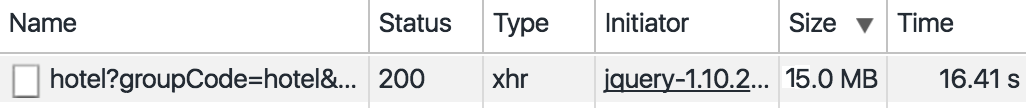
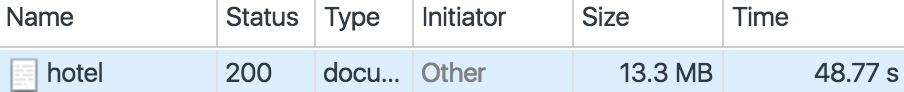
update on 2017/10/04 22:22:20

diff --git a/source/_posts/map-api-performance-improvement.md b/source/_posts/map-api-performance-improvement.md
@@ -13,64 +13,127 @@ date: 2017-09-28 23:29:16
 
 ## 문제점
 ![크롬 개발자 도구 네트워크 탭에서 본 API 호출](01.png)  
-응답하는데만 16초가 걸렸고 트래픽은 15MB 남짓...  
+Time은 데이터 전체를 파싱하는데 걸린 시간이니 무시하고...
+트래픽이 13MB 남짓...  
 사용자가 조건을 바꿔서 검색을 한다면 데이터 광탈범이 될 가능성이 다분한 상황이었다.  
-서버에서 16초가 걸리니 로컬에서는 20초 이상이 걸리는 상황이었다.  
 
-![사태 파악을 위해 응답값을 보자](02.png)  
-15MB의 문자열을 파싱하기에는 무리였는지 크롬 조차 파싱하는 걸 포기하였다.  
+![순수 응답 시간을 알고 싶어서 다운로드 받아봄](03.png)  
+응답 시간이 22초 남짓...  
 
-![원본 응답값을 보고 싶어서 직접 응답값을 다운로드](03.png)  
-32초에 요청하고 49초에 응답을 받았으니 17초 소요  
-응답값 사이즈는 15,504,080Byte, 약 15Mb.  
-17초 중에 응답을 15MB를 내려받는 건 1~2초 내에 끝나서 대부분이 쿼리 실행 및 자바 객체와 매핑하는데 시간을 소요했을 것으로 추정.  
+![StopWatch를 통해 어느 작업에서 병목이 가장 많이 발생하는지 파악](16.png)  
 
-## 원인 파악 및 해결
-### 쿼리 튜닝
-![클러스터(지역 목록) 조회 쿼리 및 자바 객체로 매핑하는데 약 1초](04.png)  
-![딜목록 조회 쿼리 및 자바 객체로 매핑하는데 약 10초](06.png)  
-![가격 주입 쿼리 및 자바 객체로 매핑하는데 약 3초](07.png)  
-호텔 실제 가격 주입 부분은 다른 곳에서도 사용 중이기도 하고 딜 목록 조회가 제일 시간이 오래 걸려서 해당 쿼리부터 손보기로 했다.  
+## 원인 파악
+### 쿼리
+![숙박 연동사 실제 가격 주입하는 부분](17.png)  
+숙박 연동 최저가는 jooq로 불러오고 있고, 숙박 연동사 테이블은 jpa로 불러오고 있음.  
+순수 네이티브 쿼리가 아닌 이상 퍼포먼스가 제대로 나오지 않을 것으로 판단됨.  
 
-![테이블의 모든 필드를 다 긁어오고 있음](05.png)  
+![딜 목록 불러오는 쿼리](05.png)  
 실제로 필요한 건 특정 필드 뿐인데 모든 필드를 다 긁어오고 있어서 쿼리 실행속도가 느려진 것임.  
-따라서 필요한 필드만 불러오게 끔 코드를 수정하였다.
 
-![쿼리 실행 속도가 훨씬 올라갔다.](13.png)  
-
-### 데이터 다이어트(용량 줄이기)
+### 용량
 ![실제로 저장된 응답값](08.png)  
 이 응답값에는 세 가지 문제점이 존재한다.
 
 ![쓸 데 없는 공백을 포함하고 있었다.](09.png)  
-따라서 JSONParser 쪽을 손 봐서 공백을 없애도록 수정하였다.  
-하지만 공백을 줄여보아도 1MB 남짓의 용량만 줄어들었다.  
+이 데이터를 줄였을 때 1MB 정도 가량이 줄어들었다.
 
 ![쓸 데 없는 컬럼들도 포함하고 있었다.](10.png)  
-treeAllId라던지, clusterName이나 빈 배열 등등 다른 값들을 가지고 유추할 수 있는 값들을 제거하였다.  
-하지만 크게 효과는 없었다.  
-
+treeAllId라던지, clusterName이나 빈 배열 등등 다른 값들을 가지고 유추할 수 있는 값들을 제거하였다.
+딱히 이 부분에서는 데이터를 크게 줄일 수가 없었다.  
+  
 ![컬럼의 값을 가공하지 않고 그대로 들고 있다.](11.png)  
 이미지의 URL을 담고 있는 컬럼을 불러와서 필요한 정보만 뿌려주는 게 아니라 모든 데이터를 가공없이 뿌려주고 있었다.  
 이 컬럼의 데이터가 하나의 딜에 대한 데이터의 3/4 이상을 차지하고 있었다.  
-![데이터를 가공하자 2MB 이하로 데이터가 줄어들었다.](14.png)  
+대부분의 쓸 데 없는 데이터가 여기서 낭비되고 있었다.
+
+## 문제 해결
+### 아예 API 서버로 따로 분리
+맵 API는 방대한 양의 데이터를 가져오므로 서버의 리소스 사용이 많아 아예 별도의 서버로 구축하기로 판단했다.  
+하지만 실제 가격을 주입하기 위해서는 유저의 등급이 필요한데 API 서버에는 유저에 대한 정보를 가지고 있지 않기 때문에 아래와 같은 구조로 구성하게 됨.  
+![서버 구조](server.png)  
+가자고 프론트 서버는 타지 않는 게 제일 베스트인데 유저 정보에 따른 실제 가격 주입 때문에 어쩔 수 없이 넣게 되었다.  
 
 ### 빠른 응답속도 보장
-클러스터와 딜을 함께 내려주다보니 초기에 유저가 기다려야하는 속도는 5~7초 남짓으로 줄어들긴 했지만 여전히 느리다.  
+클러스터와 딜을 함께 내려주다보니 초기에 유저가 기다려야하는 속도는 15~20초 남짓 대기해야한다.    
 ![이 화면에서 클러스터를 그리기 위한 정보는 중심 좌표, 지역 코드, 딜 갯수가 끝이다.](12.png)  
 굳이 딜 목록까지 내려 줄 필요가 없다고 판단이 들어서 클러스터(갯수 포함) 따로 딜 따로 내려주게 끔 API를 두 개로 분리하였다.  
 ```
 /api/v1/map/hotel (클러스터)
 /api/v1/map/hotel/deals (딜, 기존 API)
 ```
-클러스터를 그리기 위한 클러스터 API는 응답 속도가 1초 남짓이라 유저가 불편을 느끼지 못할 수준이다.  
+클러스터를 그리기 위한 클러스터 API는 응답 속도가 1~2초 남짓이라 유저가 불편을 느끼지 못할 수준이다.  
 유저가 방심(?)하는 사이에 몰래(?) 딜을 뿌려주는 API를 호출하고 있으면 웬만한 유저들에게는 불편함을 주지 않을 것이다.  
+
+### 중간 점검
+![데이터는 2MB 남짓으로 줄어들었고, 응답속도도 11초 가량 걸렸다.](18.png)
+  
+![가장 오래 걸리는 게 숙박 딜 실제 가격 주입 부분이다.](19.png)  
+아직 이정도 시간 가지고는 서비스 하기에는 무리가 있어 보였다.  
+
+### 캐싱하기
+**딜들과 카테고리 ID를 매핑하는 부분**과 **숙박 딜의 실제 가격을 주입하는 부분**은 애초부터 판매 중인 모든 딜에 대한 정보만 들고있으면 된다.  
+즉, 조건에 구애받지 않는다는 뜻이다.  
+```java
+@Service
+public class Job {
+    private HotelDealMinPricesMapper hotelDealMinPricesMapper;
+    private DealPartnersMapper dealPartnersMapper;
+    private TreeDealMapMapper treeDealMapMapper;
+    private CategoryIds categoryIds;
+    private HotelPartnersAndPrices hotelPartnersAndPrices;
+
+    @Inject
+    public Job(
+            HotelDealMinPricesMapper hotelDealMinPricesMapper, DealPartnersMapper dealPartnersMapper,
+            TreeDealMapMapper treeDealMapMapper, CategoryIds categoryIds, HotelPartnersAndPrices hotelPartnersAndPrices
+    ) {
+        this.hotelDealMinPricesMapper = hotelDealMinPricesMapper;
+        this.dealPartnersMapper = dealPartnersMapper;
+        this.treeDealMapMapper = treeDealMapMapper;
+        this.categoryIds = categoryIds;
+        this.hotelPartnersAndPrices = hotelPartnersAndPrices;
+    }
+
+    /** crontab
+     1.Seconds
+     2.Minutes
+     3.Hours
+     4.Day-of-Month
+     5.Month
+     6.Day-of-Week
+     7.Year (optional field)
+     */
+    @PostConstruct
+    @Scheduled(cron = "0 0/30 * * * ?")
+    public void setLeisureAndHotelCategoryIds() {
+        categoryIds.setLeisureCategoryIds(treeDealMapMapper.selectLeisureCategoryId());
+        categoryIds.setHotelCategoryIds(treeDealMapMapper.selectHotelCategoryId());
+    }
+
+    @PostConstruct
+    @Scheduled(cron = "0 0/30 * * * ?")
+    public void setPricesAndPartners() {
+        hotelPartnersAndPrices.setPartners(dealPartnersMapper.selectDealPartnersAll());
+        hotelPartnersAndPrices.setPrices(hotelDealMinPricesMapper.selectMinPricesAll());
+    }
+}
+```
+서버를 띄웠을 때 최초 1회, 30분 마다 캐싱하도록 설정하였다.  
+
+### 최종 점검
+![4~5초 가량으로 줄어들었다.](20.png)  
+
+![최대 오래 걸리는 게 딜 목록을 불러오는 부분이다.](21.png)  
+
+![실제 쿼리 실행은 0.01초도 안 걸렸다.](22.png)  
+
+![아마 매핑하는 필드가 많아서 오래걸리는 게 아닐까...싶다.](23.png)
 
 ## 차후 개선 사항 (시간 문제 및 공수와 효율성 문제)
 * 2MB로 줄였다 하더라도 필터를 계속해서 바꾸다 보면 유저 입장에서는 부담되는 용량일 수도 있다.  
 ![또한 딜을 내려주는 API에서 반복되는 키값을 빼고 순서를 보장한 배열로 만들어 내려주는 형태로 바꿔주면 데이터를 0.5MB 이상 단축할 수 있다.](15.png)    
-* 딜을 뿌리는 API가 여전히 느리다. (5~7초)  
+* 딜을 뿌리는 API가 여전히 느리다. (3~6초)  
 데이터가 많아지면 이 속도는 더 느려질 게 뻔하다.  
 따라서 캐싱을 해야하는데 어떻게 캐싱할 것인지 전략을 세워야한다.  
-어디서 병목이 일어나는지 먼저 판단을 한 후에 어떤 데이터를 캐싱할지부터 알아내야할 것 같다.  
-또한 따로 지도 API 전용 서버를 만들어서 좀 더 성능을 올리는 방법 등등도 있을 것 같다.  
+숙박의 경우에는 필터 조건이 다양해서 사람들이 자주 이용하는 주말 등등의 데이터를 저장한다던가 해야겠다.  
